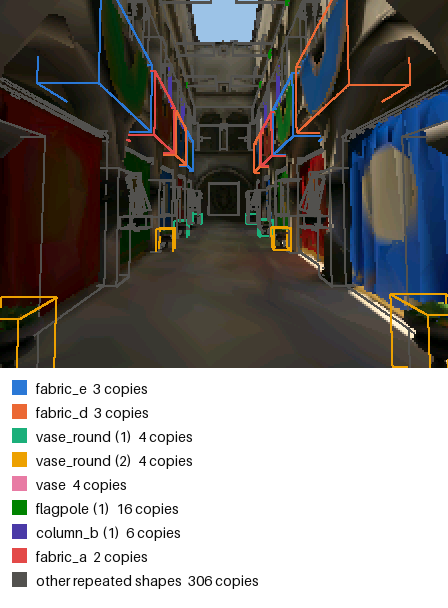
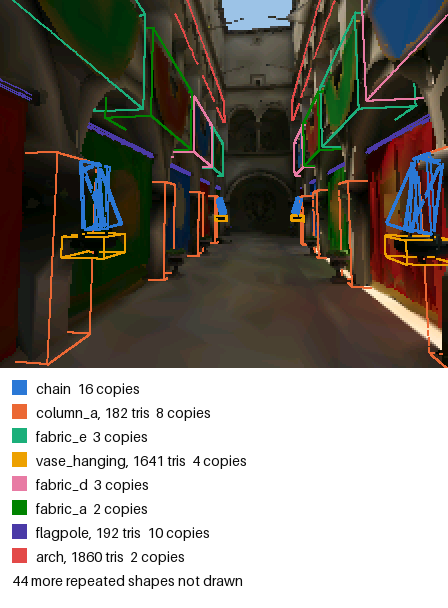
render: select instance figure by visible coloured edges

diff --git a/launcher/tools/r3d/objects/instances_figure.py b/launcher/tools/r3d/objects/instances_figure.py
@@ -20,7 +20,7 @@ from PIL import Image, ImageDraw, ImageFont
 sys.path.insert(0, str(Path(__file__).resolve().parents[2]))
 sys.path.insert(0, str(Path(__file__).resolve().parents[2] / "device"))
 
-from docs.plot_style import INK, MUTED, SLOTS  # noqa: E402
+from docs.plot_style import INK, SLOTS  # noqa: E402
 from panel_size import PANEL_HEIGHT, PANEL_WIDTH  # noqa: E402
 from r3d.appearance_simplify import projection  # noqa: E402
 from r3d.cost_model import clusters_in_view  # noqa: E402
@@ -39,7 +39,6 @@ ROW_HEIGHT = 24
 PADDING = 12
 FONT_SIZE = 14
 LINE_WIDTH = 2
-OTHER_LABEL = 'other repeated shapes'
 CORNER_BITS = np.array(list(product((0, 1), repeat=3)))
 BOX_EDGES = tuple((a, b) for a in range(len(CORNER_BITS)) for b in range(a + 1, len(CORNER_BITS))
                   if np.count_nonzero(CORNER_BITS[a] != CORNER_BITS[b]) == 1)
@@ -59,15 +58,20 @@ def placed_boxes(shapes, job):
     return np.asarray(boxes).reshape(-1, len(CORNER_BITS), 3), np.asarray(owners, dtype=int)
 
 
-def choose_view(boxes, owners, poses, size, lens, near):
-    """Prefer distinct repeated shapes, then visible copies, then the earliest sample."""
+def choose_view(boxes, owners, poses, size, lens, near, query):
+    """Prefer coloured visible length, then distinct shapes, copies, and earliest sample."""
+    best, chosen = (-1, -1, -1), None
     bounds = np.stack((boxes.min(axis=1), boxes.max(axis=1)), axis=1)
-    best, chosen = (-1, -1), None
     for index, pose in enumerate(poses):
+        segments, segment_owners = visible_segments(boxes, owners, pose, size, lens, near, query)
+        lengths = Counter()
+        for owner, length in zip(segment_owners, np.linalg.norm(segments[:, 1] - segments[:, 0], axis=1)):
+            lengths[int(owner)] += float(length)
+        coloured_length = sum(sorted(lengths.values(), reverse=True)[:len(SLOTS)])
         shown = clusters_in_view(bounds, projection(pose[:3], pose[3:], *size, lens, near))
-        score = (len(set(owners[shown])), int(shown.sum()))
+        score = (coloured_length, len(set(owners[shown])), int(shown.sum()))
         if score > best:
-            best, chosen = score, (index, shown)
+            best, chosen = score, (index, segments, segment_owners, lengths, score)
     if chosen is None:
         raise ValueError('camera path has no poses')
     return chosen
@@ -84,30 +88,69 @@ def project_points(points, pose, size, lens, near):
 
 def edge_visibility(query, eye, start, end, tolerance):
     """Sample edge midpoints; a nearer source surface hides the corresponding segment."""
-    points = np.linspace(start, end, EDGE_SAMPLES + 1)
-    midpoints = (points[:-1] + points[1:]) / 2
-    directions = midpoints - eye
+    points = np.linspace(start, end, EDGE_SAMPLES + 1, axis=-2)
+    midpoints = (points[..., :-1, :] + points[..., 1:, :]) / 2
+    directions = (midpoints - eye).reshape(-1, 3)
     distances = np.linalg.norm(directions, axis=1)
     directions /= np.maximum(distances[:, None], np.finfo(float).eps)
     origins = np.broadcast_to(eye, directions.shape)
     hit, first, _ = query.first_hits(origins, directions)
-    return points, ~(hit & (first < distances - tolerance))
+    return points, (~(hit & (first < distances - tolerance))).reshape(midpoints.shape[:-1])
 
 
-def legend_rows(shapes, owners, material_names, palette=SLOTS):
-    """Dominant source materials label ranked shapes; overflow shares one neutral row."""
-    ranked = sorted(set(owners), key=lambda i: (-len(shapes[i].triangles) * (len(shapes[i].instances) - 1), i))
-    names = [material_names[int(np.bincount(shapes[i].materials).argmax())] for i in ranked]
-    duplicates, used = Counter(names), Counter()
+def visible_segments(boxes, owners, pose, size, lens, near, query):
+    """Source-visible box segments clipped to the picture, shared by scoring and drawing."""
+    bounds = np.stack((boxes.min(axis=1), boxes.max(axis=1)), axis=1)
+    shown = clusters_in_view(bounds, projection(pose[:3], pose[3:], *size, lens, near))
+    edges = boxes[shown][:, BOX_EDGES].reshape(-1, 2, 3)
+    edge_owners = np.repeat(owners[shown], len(BOX_EDGES))
+    _, depth = project_points(edges.reshape(-1, 3), pose, size, lens, near)
+    depth = depth.reshape(-1, 2)
+    keep = depth.max(axis=1) >= near
+    edges, depth, edge_owners = edges[keep], depth[keep], edge_owners[keep]
+    for endpoint in (0, 1):
+        clipped = depth[:, endpoint] < near
+        fraction = (near - depth[clipped, endpoint]) / (depth[clipped, 1 - endpoint] - depth[clipped, endpoint])
+        edges[clipped, endpoint] += fraction[:, None] * (edges[clipped, 1 - endpoint] - edges[clipped, endpoint])
+    if not len(edges):
+        return np.empty((0, 2, 2)), np.empty(0, dtype=int)
+    tolerance = max((bounds_diagonal(box) for box in boxes), default=0) * OCCLUSION_TOLERANCE
+    points, visible = edge_visibility(query, pose[:3], edges[:, 0], edges[:, 1], tolerance)
+    pixels, _ = project_points(points.reshape(-1, 3), pose, size, lens, near)
+    pixels = pixels.reshape(len(edges), EDGE_SAMPLES + 1, 2)
+    segments = np.stack((pixels[:, :-1], pixels[:, 1:]), axis=2)[visible]
+    segment_owners = np.broadcast_to(edge_owners[:, None], visible.shape)[visible]
+    start, delta = segments[:, 0], segments[:, 1] - segments[:, 0]
+    lower, upper = np.zeros(len(start)), np.ones(len(start))
+    for axis, limit in enumerate(size):
+        moving = delta[:, axis] != 0
+        first = np.full(len(start), -np.inf)
+        last = np.full(len(start), np.inf)
+        first[moving] = -start[moving, axis] / delta[moving, axis]
+        last[moving] = (limit - start[moving, axis]) / delta[moving, axis]
+        lower = np.maximum(lower, np.minimum(first, last))
+        upper = np.minimum(upper, np.maximum(first, last))
+        upper[~moving & ((start[:, axis] < 0) | (start[:, axis] > limit))] = -1
+    keep = upper > lower
+    clipped = start[keep, None] + np.stack((lower[keep], upper[keep]), axis=1)[..., None] * delta[keep, None]
+    return clipped, segment_owners[keep]
+
+
+def legend_rows(shapes, lengths, material_names, palette=SLOTS):
+    """Rank by visible length; material names and triangle counts distinguish shapes."""
+    ranked = sorted((i for i in lengths if lengths[i] > 0), key=lambda i: (-lengths[i], i))[:len(palette)]
+    repeated = [i for i, shape in enumerate(shapes) if len(shape.instances) > 1]
+    names = {i: material_names[int(np.bincount(shapes[i].materials).argmax())] for i in repeated}
+    duplicates = Counter(names.values())
     colours, rows = {}, []
-    for slot, (index, name) in enumerate(zip(ranked, names)):
-        used[name] += 1
-        label = f'{name} ({used[name]})' if duplicates[name] > 1 else name
-        colours[index] = palette[slot] if slot < len(palette) else MUTED
-        if slot < len(palette):
-            rows.append((colours[index], label, len(shapes[index].instances)))
-    if len(ranked) > len(palette):
-        rows.append((MUTED, OTHER_LABEL, sum(len(shapes[i].instances) for i in ranked[len(palette):])))
+    for slot, index in enumerate(ranked):
+        name = names[index]
+        label = f'{name}, {len(shapes[index].triangles)} tris' if duplicates[name] > 1 else name
+        colours[index] = palette[slot]
+        rows.append((colours[index], label, len(shapes[index].instances)))
+    overflow = len(repeated) - len(ranked)
+    if overflow:
+        rows.append((None, f'{overflow} more repeated shapes not drawn', None))
     return colours, rows
 
 
@@ -121,52 +164,60 @@ def render_host(host, scene, object_name, camera_name, time_ms):
             return image.convert('RGB')
 
 
-def draw_figure(image, shapes, boxes, owners, shown, pose, lens, near, query, material_names):
-    """Skip source-occluded segments and append material swatches below the host image."""
+def draw_figure(image, segments, owners, colours, rows):
+    """Draw only selected shapes and append their material legend."""
     image = image.copy()
-    colours, rows = legend_rows(shapes, owners[shown], material_names)
     draw = ImageDraw.Draw(image)
-    tolerance = max((bounds_diagonal(box) for box in boxes), default=0) * OCCLUSION_TOLERANCE
-    for box, owner in zip(boxes[shown], owners[shown]):
-        for a, b in BOX_EDGES:
-            points, visible = edge_visibility(query, pose[:3], box[a], box[b], tolerance)
-            pixels, depth = project_points(points, pose, image.size, lens, near)
-            for index in np.flatnonzero(visible & (depth[:-1] >= near) & (depth[1:] >= near)):
-                draw.line([tuple(pixels[index]), tuple(pixels[index + 1])], fill=colours[owner], width=LINE_WIDTH)
+    for segment, owner in zip(segments, owners):
+        if owner in colours:
+            draw.line([tuple(point) for point in segment], fill=colours[owner], width=LINE_WIDTH)
     font = ImageFont.load_default(size=FONT_SIZE)
-    legend_width = max((draw.textbbox((0, 0), f'{label}  {count} copies', font=font)[2]
-                        for _, label, count in rows), default=0) + ROW_HEIGHT + PADDING * 2
-    canvas = Image.new('RGB', (max(image.width, legend_width), image.height + len(rows) * ROW_HEIGHT + PADDING * 2), 'white')
+    labels = [f'{label}  {count} copies' if count is not None else label for _, label, count in rows]
+    legend_width = max((draw.textbbox((0, 0), label, font=font)[2] for label in labels), default=0)
+    canvas = Image.new('RGB', (max(image.width, legend_width + ROW_HEIGHT + PADDING * 2),
+                               image.height + len(rows) * ROW_HEIGHT + PADDING * 2), 'white')
     canvas.paste(image, ((canvas.width - image.width) // 2, 0))
     draw = ImageDraw.Draw(canvas)
-    for index, (colour, label, count) in enumerate(rows):
+    for index, ((colour, _, _), label) in enumerate(zip(rows, labels)):
         y = image.height + PADDING + index * ROW_HEIGHT
-        draw.rectangle((PADDING, y, PADDING + FONT_SIZE, y + FONT_SIZE), fill=colour)
-        draw.text((PADDING + ROW_HEIGHT, y), f'{label}  {count} copies', fill=INK, font=font)
+        if colour is not None:
+            draw.rectangle((PADDING, y, PADDING + FONT_SIZE, y + FONT_SIZE), fill=colour)
+        draw.text((PADDING + ROW_HEIGHT if colour else PADDING, y), label, fill=INK, font=font)
     return canvas
 
 
-def generate(scene, job, camera, host, out, every_ms, host_render=render_host):
+def generate(scene, job, cameras, host, out, every_ms, host_render=render_host):
     src = load_object_source(job.settings)
     objects = masked_objects(src, job.settings)
     shapes = match_instances(objects)
     boxes, owners = placed_boxes(shapes, job)
     visibility = SimpleNamespace(size=DOC_SIZE, every_ms=every_ms)
-    _, _, lens, near, poses = camera_path_poses(SimpleNamespace(camera=camera), visibility, either_way_up=False)
-    index, shown = choose_view(boxes, owners, poses, DOC_SIZE, lens, near)
-    time_ms = index * every_ms
-    image = host_render(host, scene_id(scene.path), job.object.name, camera.name, time_ms)
-    if image.size != DOC_SIZE:
-        raise ValueError(f'host image must be {DOC_SIZE}, got {image.size}')
     positions = np.concatenate([obj.positions for obj in objects])
     offsets = np.cumsum([0] + [len(obj.positions) for obj in objects[:-1]])
     triangles = np.concatenate([obj.triangles + offset for obj, offset in zip(objects, offsets)])
     positions = positions @ np.asarray(job.object.matrix).T + job.object.position
     query = RayQuery(positions, triangles)
-    picture = draw_figure(image, shapes, boxes, owners, shown, poses[index], lens, near, query, src.names)
+    best, chosen = (-1, -1, -1, -1), None
+    for camera in cameras:
+        _, _, lens, near, poses = camera_path_poses(SimpleNamespace(camera=camera), visibility, either_way_up=False)
+        index, segments, segment_owners, lengths, score = choose_view(boxes, owners, poses, DOC_SIZE, lens, near, query)
+        colours, rows = legend_rows(shapes, lengths, src.names)
+        score = (*score, -index)
+        if score > best:
+            best = score
+            chosen = camera, index * every_ms, segments, segment_owners, colours, rows
+    if chosen is None:
+        raise ValueError('no camera paths')
+    camera, time_ms, segments, segment_owners, colours, rows = chosen
+    image = host_render(host, scene_id(scene.path), job.object.name, camera.name, time_ms)
+    if image.size != DOC_SIZE:
+        raise ValueError(f'host image must be {DOC_SIZE}, got {image.size}')
+    picture = draw_figure(image, segments, segment_owners, colours, rows)
     out.parent.mkdir(parents=True, exist_ok=True)
     picture.save(out)
-    print(f'chosen time: {time_ms} ms; repeated shapes in view: {len(set(owners[shown]))}')
+    print(f'chosen camera: {camera.name}; time: {time_ms} ms; render: {DOC_SIZE[0]}x{DOC_SIZE[1]}')
+    for _, label, count in rows:
+        print(f'{label}' + (f': {count} copies' if count is not None else ''))
     return time_ms
 
 
@@ -181,15 +232,15 @@ def main(argv=None):
     args = parser.parse_args(argv)
     scene = load_scene(args.scene)
     job = next((job for job in scene.renderers if job.object.name == args.object), None)
-    camera = next((obj for obj in scene.objects if obj.kind == 'camera' and
-                   (obj.name == args.camera if args.camera else obj.component.path is not None)), None)
+    cameras = [obj for obj in scene.objects if obj.kind == 'camera' and obj.component.path is not None
+               and (args.camera is None or obj.name == args.camera)]
     if job is None or job.object.kind != 'mesh_renderer':
         parser.error('--object must name a mesh renderer')
-    if camera is None or camera.component.path is None:
+    if not cameras:
         parser.error('camera must have a path')
     if args.every_ms <= 0:
         parser.error('--every-ms must be positive')
-    generate(scene, job, camera, args.host, args.out, args.every_ms)
+    generate(scene, job, cameras, args.host, args.out, args.every_ms)
     return 0
 
 

diff --git a/launcher/tools/tests/test_r3d_objects.py b/launcher/tools/tests/test_r3d_objects.py
@@ -411,20 +411,23 @@ class ObjectsTests(unittest.TestCase):
 
 
 class InstancesFigureTests(unittest.TestCase):
-    def test_view_shape_count_then_copies_then_earliest(self):
+    def test_view_visible_length_then_shapes_copies_earliest(self):
         from r3d.objects.instances_figure import choose_view
 
         boxes = np.array([np.array(list(product((-1., 1.), repeat=3))) + [0, 0, -10]] * 4)
         owners = np.array([0, 0, 1, 1])
         poses = [np.array([index, 0., 0., 0., 0., -1.]) for index in range(4)]
-        masks = [[True, True, False, False], [True, False, True, False],
-                 [True, True, True, False], [True, True, True, False]]
-        with patch('r3d.objects.instances_figure.clusters_in_view', side_effect=map(np.array, masks)):
-            index, shown = choose_view(boxes, owners, poses, (100, 80), 0.6, 1.)
+        segments = np.array([[[0., 0.], [10., 0.]], [[0., 0.], [2., 0.]]])
+        samples = [(segments / 2, owners[:2]), (segments, owners[:2]),
+                   (segments, owners[1:3]), (segments, owners[1:3])]
+        with patch('r3d.objects.instances_figure.visible_segments', side_effect=samples), \
+                patch('r3d.objects.instances_figure.clusters_in_view', side_effect=map(np.array,
+                      [[True, True, True, True], [True, True, False, False],
+                       [True, True, True, False], [True, True, True, False]])):
+            index, _, _, _, _ = choose_view(boxes, owners, poses, (100, 80), 0.6, 1., None)
         self.assertEqual(index, 2)
-        self.assertEqual(shown.tolist(), masks[2])
-        with patch('r3d.objects.instances_figure.clusters_in_view', side_effect=map(np.array, masks[:2])):
-            self.assertEqual(choose_view(boxes, owners, poses[:2], (100, 80), 0.6, 1.)[0], 1)
+        with patch('r3d.objects.instances_figure.visible_segments', side_effect=samples[:2]):
+            self.assertEqual(choose_view(boxes, owners, poses[:2], (100, 80), 0.6, 1., None)[0], 1)
 
     def test_projected_corner_matches_camera_ray(self):
         from r3d.objects.instances_figure import project_points
@@ -449,19 +452,16 @@ class InstancesFigureTests(unittest.TestCase):
             _, visible = edge_visibility(query, np.zeros(3), np.array([-1., 0., z]), np.array([1., 0., z]), 0.001)
             self.assertTrue((visible == expected).all())
 
-    def test_material_legend_suffixes_and_overflow(self):
-        from r3d.objects.instances_figure import legend_rows, MUTED, OTHER_LABEL
+    def test_material_legend_top_lengths_suffixes_and_overflow(self):
+        from r3d.objects.instances_figure import legend_rows
 
-        shapes = pair_shapes(POINTS + 10)
-        shape = shapes[0]
-        shapes = [shape, shape, shape]
-        colours, rows = legend_rows(shapes, np.array([0, 1, 2]), ['bronze', 'stone'], palette=('red', 'blue'))
-        self.assertEqual(rows, [('red', 'bronze (1)', 2), ('blue', 'bronze (2)', 2), (MUTED, OTHER_LABEL, 2)])
-        self.assertEqual(colours[2], MUTED)
-        shapes[1] = replace(shape, triangles=np.tile(shape.triangles, (2, 1)),
-                                                    materials=np.ones(len(shape.materials) * 2, dtype=int))
-        _, rows = legend_rows(shapes, np.array([0, 1]), ['bronze', 'stone'])
-        self.assertEqual(rows[0][1], 'stone')
+        shape = pair_shapes(POINTS + 10)[0]
+        shapes = [shape, replace(shape, triangles=np.tile(shape.triangles, (2, 1))), shape]
+        colours, rows = legend_rows(shapes, {0: 2., 1: 8., 2: 4.}, ['bronze', 'stone'],
+                                    palette=('red', 'blue'))
+        self.assertEqual(rows, [('red', 'bronze, 8 tris', 2), ('blue', 'bronze, 4 tris', 2),
+                                (None, '1 more repeated shapes not drawn', None)])
+        self.assertEqual(colours, {1: 'red', 2: 'blue'})
 
     def test_generate_with_blank_host_image(self):
         from PIL import Image
@@ -474,7 +474,7 @@ class InstancesFigureTests(unittest.TestCase):
         job = SimpleNamespace(settings=SimpleNamespace(alpha_keep=None),
                               object=SimpleNamespace(matrix=np.eye(3), position=np.zeros(3), name='mesh'))
         scene = SimpleNamespace(path=pathlib.Path('test.scene.toml'))
-        camera_obj = SimpleNamespace(name='camera')
+        cameras = [SimpleNamespace(name=name) for name in ('far', 'near')]
         pose = np.array([2., 3., 20., 0., 0., -1.])
         calls = []
 
@@ -484,14 +484,16 @@ class InstancesFigureTests(unittest.TestCase):
 
         with tempfile.TemporaryDirectory() as directory, \
                 patch('r3d.objects.instances_figure.load_object_source', return_value=src), \
-                patch('r3d.objects.instances_figure.camera_path_poses', return_value=(*DOC_SIZE, 0.6, 1., [pose])):
+                patch('r3d.objects.instances_figure.camera_path_poses', side_effect=[
+                    (*DOC_SIZE, 0.6, 1., [pose + [0, 0, 20, 0, 0, 0]]),
+                    (*DOC_SIZE, 0.6, 1., [pose + [0, 0, 20, 0, 0, 0], pose])]):
             out = pathlib.Path(directory) / 'figure.png'
-            generate(scene, job, camera_obj, pathlib.Path('unused'), out, 1000, host_render=blank)
+            generate(scene, job, cameras, pathlib.Path('unused'), out, 1000, host_render=blank)
             self.assertTrue(out.exists())
             with Image.open(out) as image:
                 self.assertGreater(image.height, DOC_SIZE[1])
                 self.assertGreater(len(image.getcolors(image.width * image.height)), 1)
-        self.assertEqual(calls[0][1:], ('test', 'mesh', 'camera', 0))
+        self.assertEqual(calls[0][1:], ('test', 'mesh', 'near', 1000))
 
 
 if __name__ == '__main__':

diff --git a/docs/render/Mesh-Import.md b/docs/render/Mesh-Import.md
@@ -218,7 +218,13 @@ a `fit` budget may not exceed it.
 
 ## Objects and instances
 
-Coloured bounds identify repeated shapes in the camera path's richest view.
+Coloured bounds show the repeated shapes with the most visible edge length.
+The figure samples every camera path and chooses the pose with the greatest
+sum for the coloured shapes; ties prefer more shapes, more copies, then earlier time.
+
+The host's largest landscape output is 448×368; its canvas is fixed at panel
+size. Bounds use two-pixel lines, and the legend names the coloured shapes.
+Other repeated shapes are counted below the legend and omitted from the picture.
 
 ![Detected repeated shapes in the atrium](../images/render/sponza-instances.png)
 
